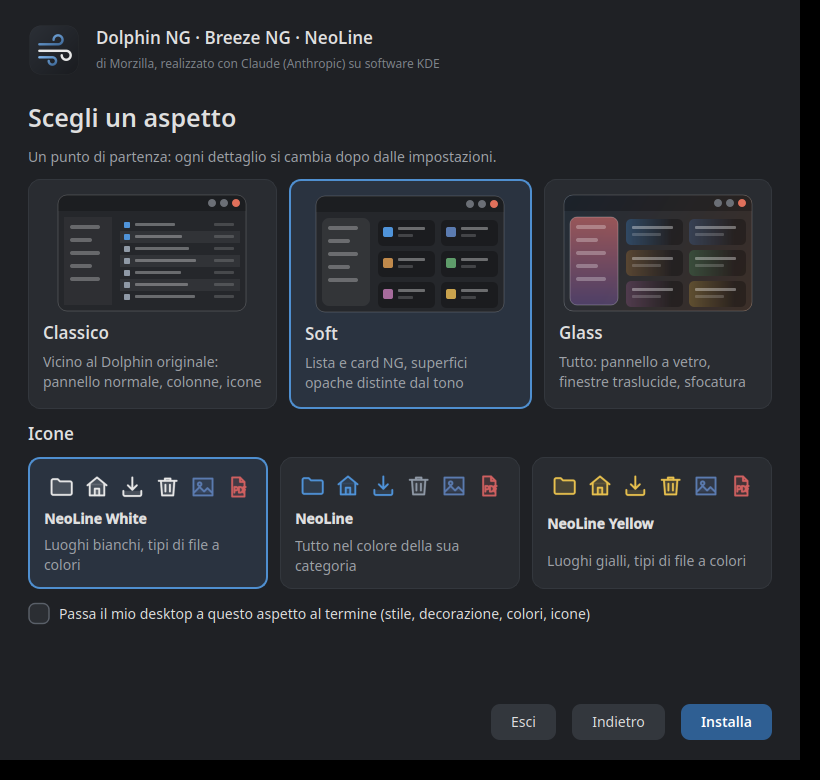
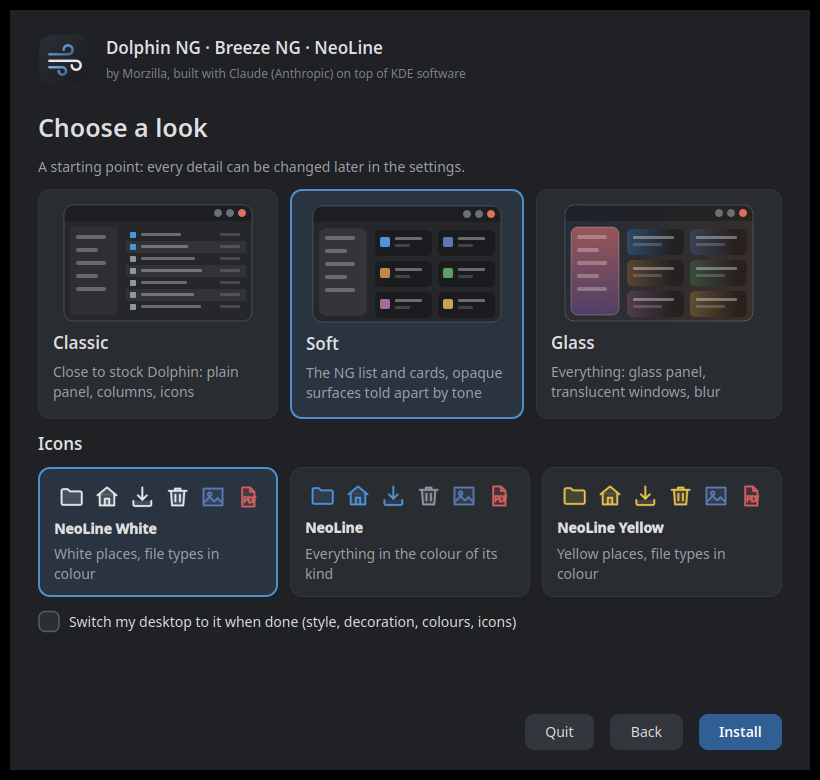
NG.md: show the graphical installer; the screenshot is now the English interface

diff --git a/NG.md b/NG.md
@@ -54,6 +54,8 @@ bash <(curl -fsSL https://raw.githubusercontent.com/Morzilla/breeze-ng/ng/ng/ins
 The graphical installer is a small wizard: pick the parts, pick a look (Classic, Soft or Glass), watch it build. It
 needs Python with PyQt6 or PySide6 and offers to install them; without them it falls back to the terminal one.
 
+![The graphical installer: choosing the look and the icons](ng/screenshots/06-installer.png)
+
 ## Build and install
 
 Build dependencies are those of Breeze itself (`sudo dnf builddep breeze`, `sudo apt build-dep breeze`,
